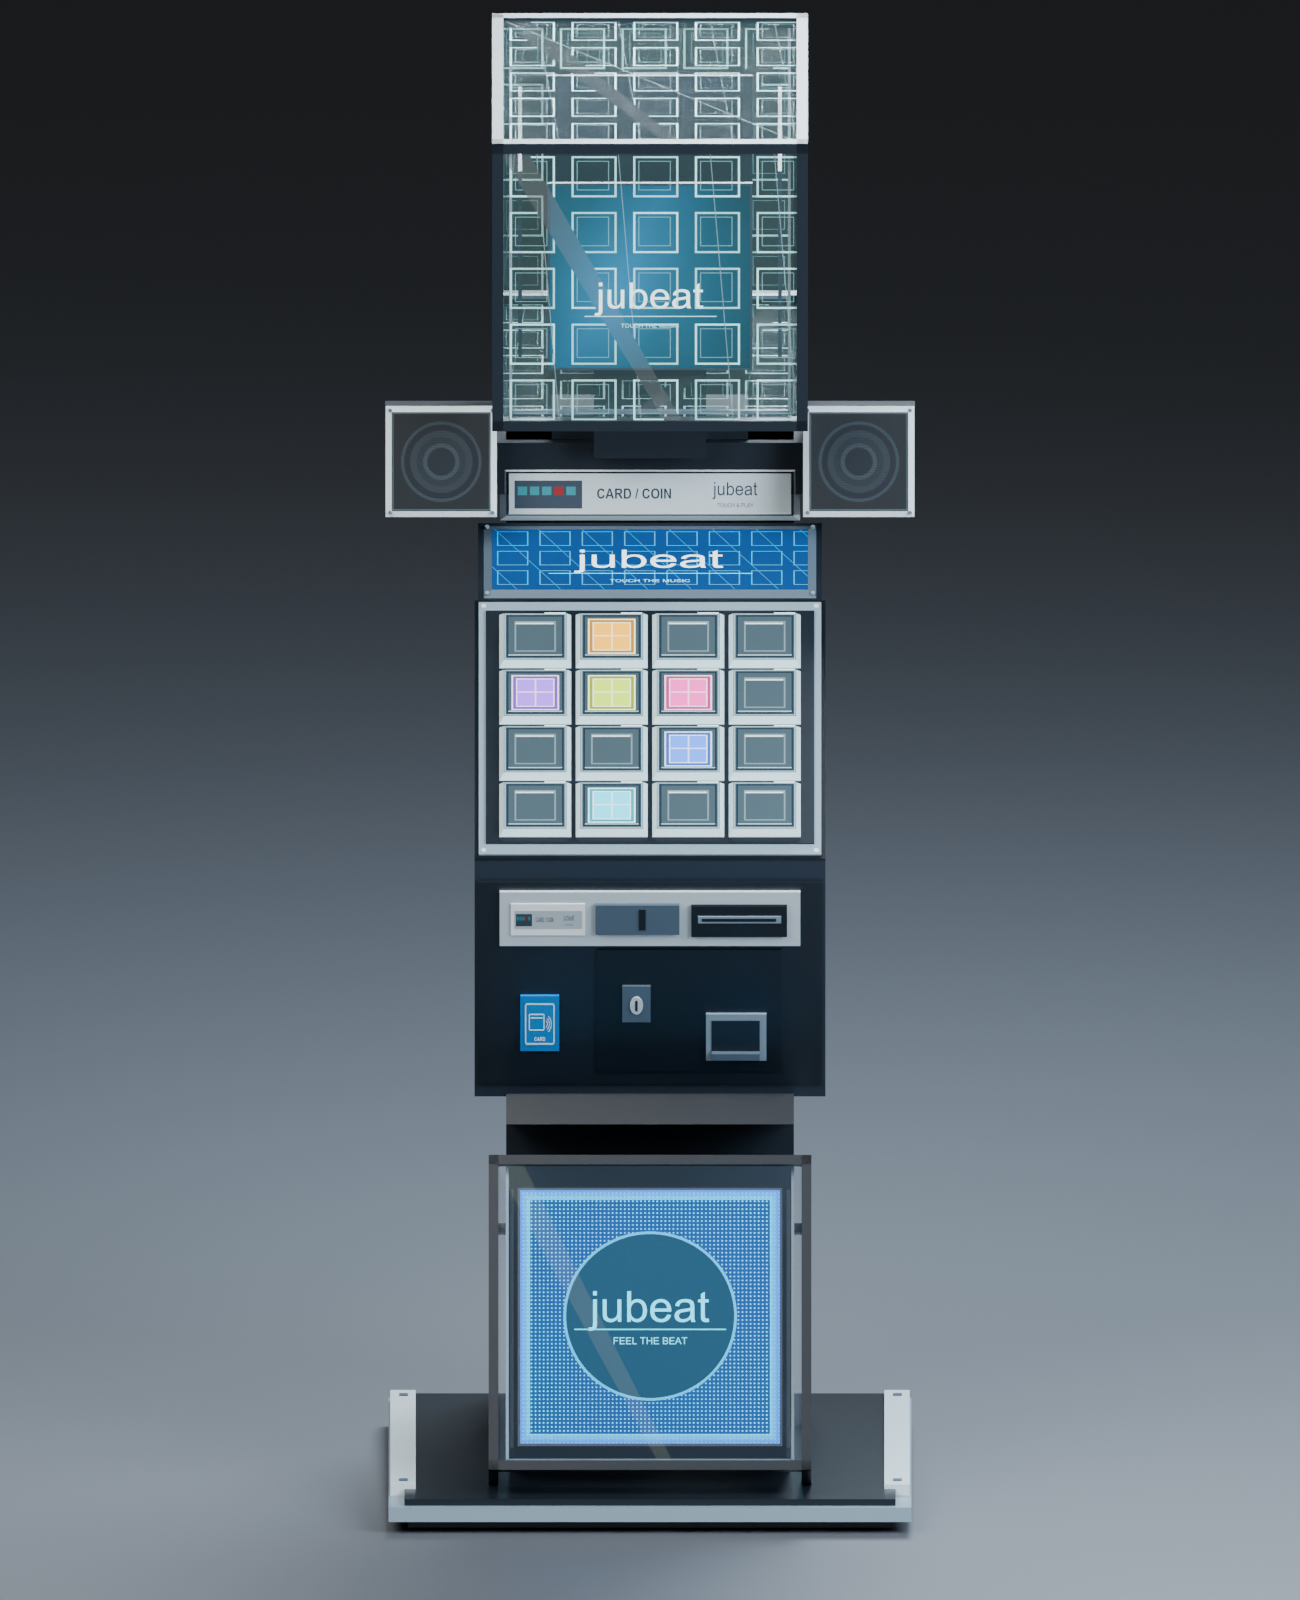
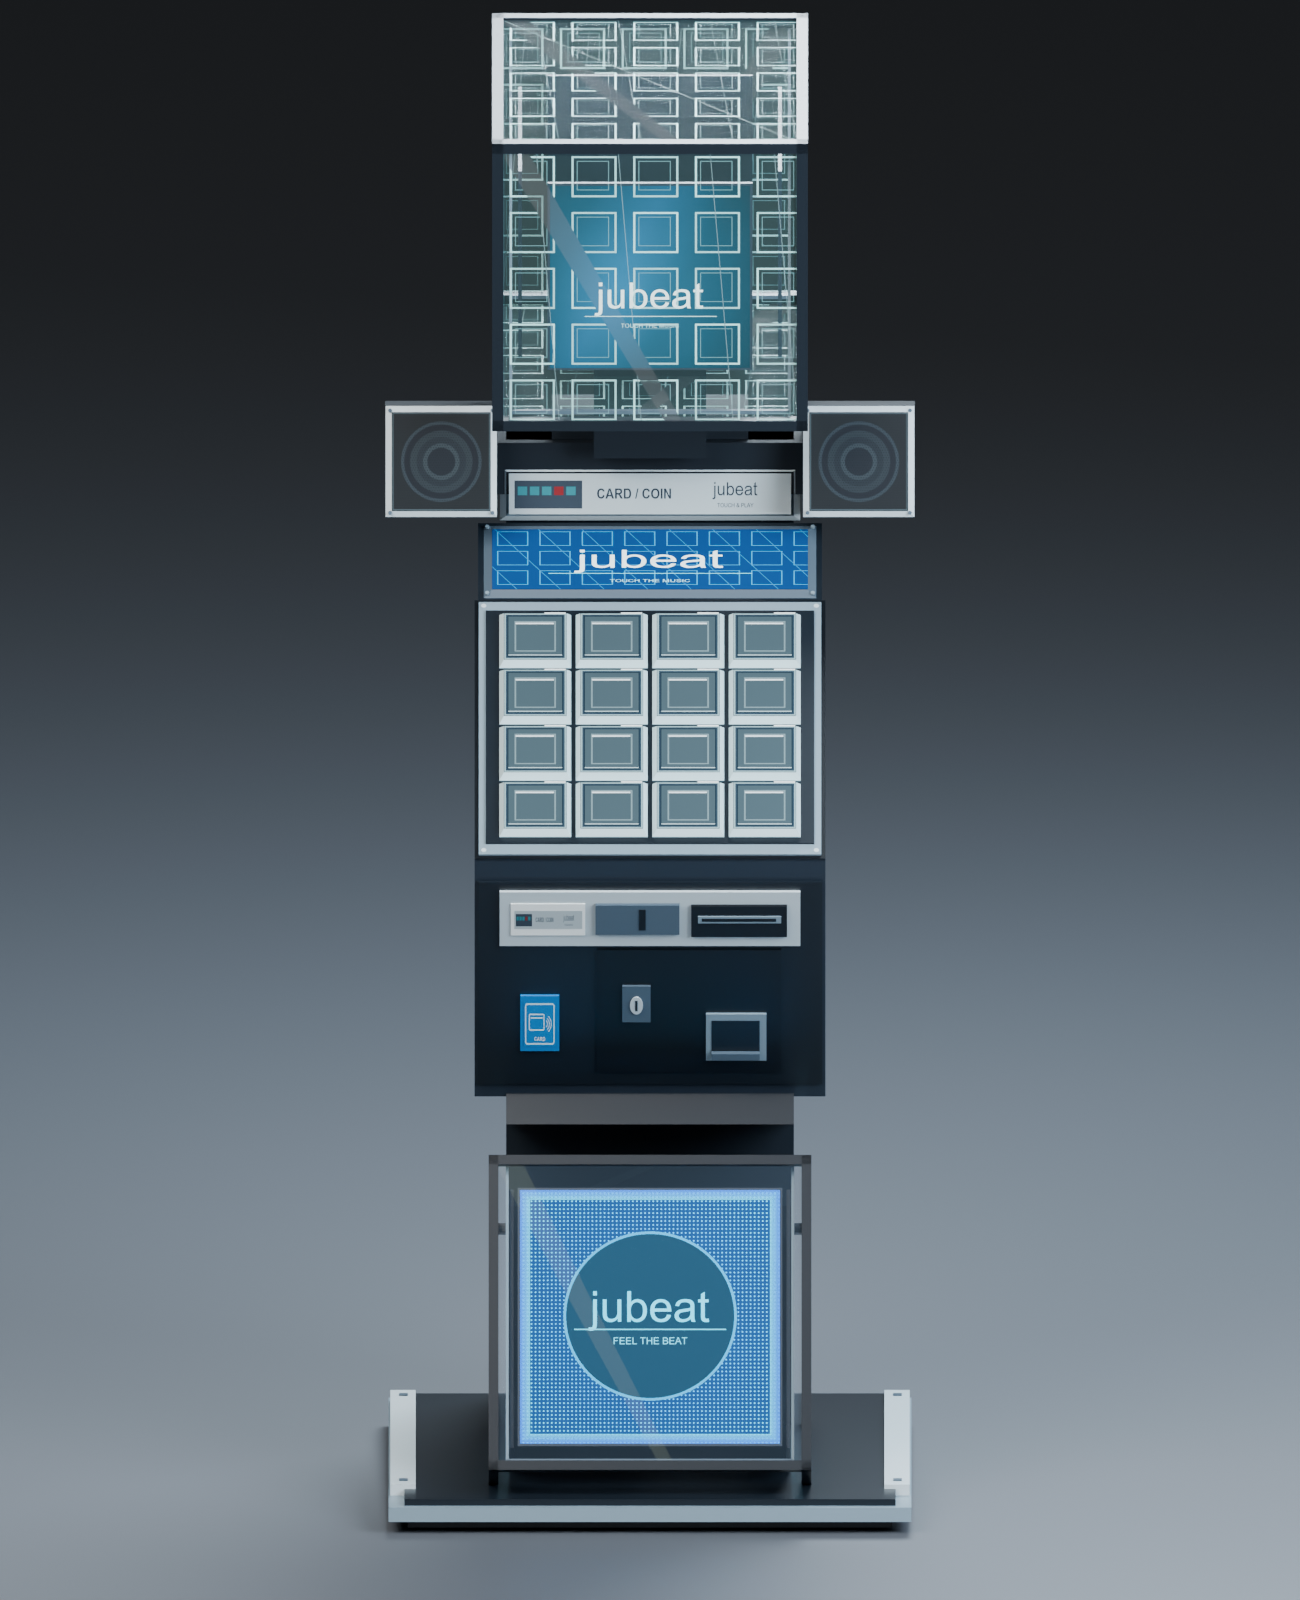
Replace Jubeat animated colored pads with static gray artwork

Changed region(s): [[0.3692, 0.375, 0.5538, 0.5312]]

diff --git a/scripts/jubeat_textures.py b/scripts/jubeat_textures.py
@@ -1,7 +1,5 @@
 """Original utility graphics for the classic blue Jubeat cabinet model."""
 import math
-import json
-import random
 from pathlib import Path
 from PIL import Image,ImageDraw,ImageFont
 from jubeat_geometry import COLORS
@@ -13,36 +11,18 @@ def word(draw,xy,text,size,fill='white',bold=False):
     draw.text(xy,text,font=font(size,bold),fill=fill,anchor='mm',stroke_width=0)
 
 
-def build_pad_frames():
-    """A repeatable attract animation with changing positions and LED colors."""
-    rng=random.Random(0x4A554245)
-    palette=((47,217,244),(244,83,173),(188,223,60),
-             (155,96,240),(248,176,45),(71,130,245))
-    frames=[]
-    for frame in range(24):
-        count=rng.randint(3,6)
-        lit=dict(zip(rng.sample(range(16),count),rng.sample(palette,count)))
-        im=Image.new('RGB',(512,512),'#08131a');d=ImageDraw.Draw(im)
-        for row in range(4):
-            for col in range(4):
-                x,y=col*128,row*128;i=row*4+col
-                d.rectangle((x+4,y+4,x+123,y+123),fill='#263642',outline='#789399',width=3)
-                d.rectangle((x+10,y+10,x+117,y+117),fill='#36464d',outline='#12212b',width=2)
-                if i in lit:
-                    color=lit[i]
-                    dim=tuple(round(c*.64) for c in color)
-                    glow=tuple(round(c+(255-c)*.62) for c in color)
-                    highlight=tuple(round(c+(255-c)*.80) for c in color)
-                    d.rectangle((x+18,y+18,x+109,y+109),fill=dim,outline=glow,width=3)
-                    d.rectangle((x+27,y+27,x+100,y+100),fill=color,outline=highlight,width=2)
-                    d.line((x+30,y+62,x+97,y+62),fill=glow,width=3)
-                    d.line((x+64,y+29,x+64,y+98),fill=glow,width=3)
-                else:
-                    d.rectangle((x+24,y+24,x+103,y+103),outline='#60757b',width=3)
-                    d.line((x+26,y+29,x+99,y+29),fill='#c0cbd0',width=4)
-                d.line((x+12,y+112,x+115,y+112),fill='#a0b5bc',width=2)
-        frames.append(im)
-    return frames
+def build_pad_texture():
+    """Sixteen neutral, unlit pads with no colored notes or animation."""
+    im=Image.new('RGB',(512,512),'#08131a');d=ImageDraw.Draw(im)
+    for row in range(4):
+        for col in range(4):
+            x,y=col*128,row*128
+            d.rectangle((x+4,y+4,x+123,y+123),fill='#263642',outline='#789399',width=3)
+            d.rectangle((x+10,y+10,x+117,y+117),fill='#36464d',outline='#12212b',width=2)
+            d.rectangle((x+24,y+24,x+103,y+103),outline='#60757b',width=3)
+            d.line((x+26,y+29,x+99,y+29),fill='#c0cbd0',width=4)
+            d.line((x+12,y+112,x+115,y+112),fill='#a0b5bc',width=2)
+    return im
 
 def build_textures(destination):
     destination=Path(destination);destination.mkdir(parents=True,exist_ok=True)
@@ -122,16 +102,13 @@ def build_textures(destination):
     word(d,(256,375),'TOUCH THE MUSIC',19,'#c8eaf0')
     save('plaque_side',im)
 
-    frames=build_pad_frames()
-    im=Image.new('RGB',(512,512*len(frames)))
-    for index,frame in enumerate(frames):im.paste(frame,(0,index*512))
+    im=build_pad_texture()
     save('pads',im)
-    result['pads'].with_suffix('.png.mcmeta').write_text(json.dumps({
-        'animation':{'width':512,'height':512,'frametime':6,'interpolate':False}
-    },indent=2)+'\n',encoding='utf-8')
+    # Also clear the old metadata when regenerating an existing animated export.
+    result['pads'].with_suffix('.png.mcmeta').unlink(missing_ok=True)
     preview=Path(__file__).resolve().parents[1]/'art/jubeat/jubeat-pads-preview.png'
     preview.parent.mkdir(parents=True,exist_ok=True)
-    frames[0].save(preview)
+    im.save(preview)
     im=Image.new('RGB',(1024,128),'#091b37');d=ImageDraw.Draw(im)
     for x in range(0,1024,45):d.line((x,0,x+95,128),fill='#124d77',width=3)
     # The separate silver panel sits ahead of this narrow blue deck strip.

diff --git a/scripts/make_jubeat_model.py b/scripts/make_jubeat_model.py
@@ -95,8 +95,7 @@ def main():
     stats={'source_faces':len(g.faces),'runtime_section_faces':{k:len(v) for k,v in parts.items()},
            'translucent_faces':sum(f['texture'] in GLASS_TEXTURES for f in g.faces)}
     write_json(ART/'geometry.json',{'textures':textures,'meshes':g.faces,'bounds':bounds,'statistics':stats,**metadata})
-    # Blockbench displays a single square frame; the runtime atlas uses the
-    # matching vertical animation strip and its .mcmeta timing.
+    # Blockbench and the runtime atlas use the same static pad artwork.
     specs=[(key,ART/'jubeat-pads-preview.png' if key=='pads' else path)
            for key,path in texture_files.items()]
     indices={'#'+key:i for i,(key,path) in enumerate(specs)}

diff --git a/art/jubeat/README.md b/art/jubeat/README.md
@@ -25,12 +25,10 @@ the plinth so the full front face reaches down close to the floor. The hidden
 portion below the plinth is omitted from the rendered mesh. Native composite models render the
 opaque structure and translucent glass separately, including the inventory item.
 
-The sixteen raised buttons run an idle light sequence: scattered buttons switch
-between cyan, blue, pink, purple, lime and amber. The 24-frame shuffled loop changes
-every six ticks (0.3 seconds), with three to six lit pads per frame and all sixteen
-positions participating. A native animated texture drives the lights without block
-updates or network traffic. The editable models and studio
-previews show the sequence's first frame.
+The sixteen raised buttons use the same neutral gray pad design, with no
+colored notes or animation. The pads use one 512-by-512 texture with
+no animation metadata. This replaces the former 24-frame light sequence and
+removes 23 MiB of decoded RGBA frame data; its atlas footprint stays 512-by-512.
 
 ## Placement and ordering
 
@@ -90,13 +88,18 @@ The small native client completed real kiosk ordering, survival placement,
 configured credit deduction and point awards, disc insertion/playback/ejection,
 and removal with adjacent cabinets intact. The item and all model textures
 rendered correctly, and the client exited with code 0.
-Native client checks confirm separate solid/translucent block layers, ordered item
-passes and all 24 loaded animation frames. Two control-deck screenshots taken one
-second apart show different lit positions and colors.
+The original native client checks confirmed separate solid/translucent block
+layers, ordered item passes, and the former animation. Each tile of the current
+static pad texture matches the original unlit gray pad. The editable models,
+studio previews and inventory icon use the same gray artwork; regenerated
+textures also remove any old animation metadata.
+The static-pad update passed the Java 21 build and a native client check:
+512-by-512 source pixels, one frame, no animation ticker, and sixteen identical
+gray tiles. The inventory icon was recaptured from the full native item model.
 
 The same release also completed those interactions in a copied modpack with all
 218 third-party mods and Complementary Reimagined enabled and exited with code 0.
-Transparent glass, ordered item layers and the changing pad lights were verified
+Transparent glass, ordered item layers and the then-animated pad lights were verified
 there as well. Both clients spent 10 Credits
 and awarded the configured randomized Prize Points on the selected pass. No Jubeat
 model or texture errors were reported. The original instance and saves were not
@@ -107,5 +110,5 @@ modified.
 - [Adjacent row](jubeat-row-in-game.png)
 - [Kiosk ordering and item model](jubeat-ordering.png)
 - [Transparent topper and speaker detail](jubeat-glass-in-game.png)
-- [Animated pads: first capture](jubeat-animation-a.png)
-- [Animated pads: one second later](jubeat-animation-b.png)
+- [Historical animation: first capture](jubeat-animation-a.png)
+- [Historical animation: one second later](jubeat-animation-b.png)

diff --git a/README.md b/README.md
@@ -50,8 +50,8 @@ BeatStream uses a copy of Nostalgia's chassis, with triangular illuminated speak
 grilles, a larger sloped touchscreen, a flat white control strip, and its own cutout topper.
 Jubeat keeps its entire shell, speakers and cube topper inside one block of
 width and depth, so independent cabinets can be placed directly side by side.
-Its glass display cubes contain recessed artwork, and its sixteen buttons run
-a multicolor idle animation. The small display above the buttons shares their slope.
+Its glass display cubes contain recessed artwork, and its sixteen buttons use
+static gray pad artwork. The small display above the buttons shares their slope.
 ONGEKI bright has a separate white outer arch, circular side panels, a recessed
 portrait monitor, two groups of three buttons, and a center lever. It uses the
 standard kiosk ordering, Arcade Pass rewards, and saved music-disc playback.
